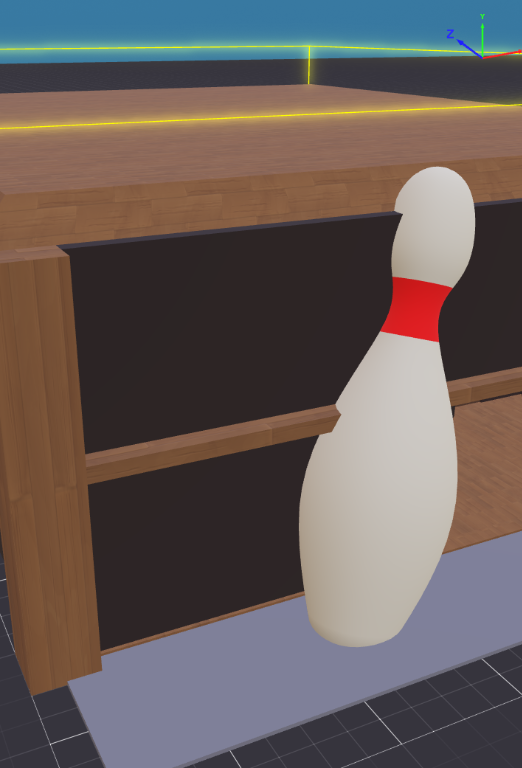
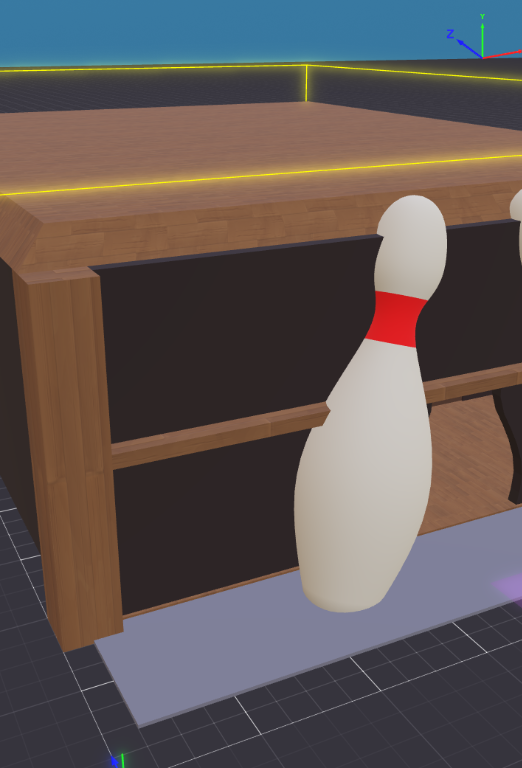
wip: keyframe payload reduction

diff --git a/dcl/src/shared/utils/cannon-sim.ts b/dcl/src/shared/utils/cannon-sim.ts
@@ -62,24 +62,6 @@ const BOWL_SPEED_MIN = 5
 const BOWL_SPEED_MAX = 20
 
 
-function roundVector3(vector: Vector3, decimalPlaces: number = 3): Vector3 {
-	const factor = 10 ** decimalPlaces
-	return Vector3.create(
-		Math.round(vector.x * factor) / factor,
-		Math.round(vector.y * factor) / factor,
-		Math.round(vector.z * factor) / factor
-	)
-}
-function roundQuaternion(quaternion: Quaternion, decimalPlaces: number = 3): Quaternion {
-	const factor = 10 ** decimalPlaces
-	return Quaternion.create(
-		Math.round(quaternion.x * factor) / factor,
-		Math.round(quaternion.y * factor) / factor,
-		Math.round(quaternion.z * factor) / factor,
-		Math.round(quaternion.w * factor) / factor
-	)
-}
-
 
 
 /** Lane-local pin rest positions (same order as simulation bodies). */
@@ -207,6 +189,8 @@ export class CannonSim {
 	}
 
 	simulate(duration: number): CannonSimResults {
+		const simStartTime = Date.now()
+
 		var framesWithNovelocity = 0
 		const STEP_TIME = 1 / GameSettings.SIM_FRAME_RATE
 		const STEPS     = Math.floor(duration / STEP_TIME)
@@ -222,6 +206,9 @@ export class CannonSim {
 			,
 			finalPinStates: Array.from({ length: PIN_LANE_LOCAL_POSITIONS.length }, () => true)
 		}
+
+		const setupDuration = Date.now() - simStartTime
+		console.log(`cannon-sim: setup finished after: ${setupDuration}ms`)
 
 		for (let i = 0; i < STEPS; i++) {
 			var hasVelocity = false
@@ -265,10 +252,13 @@ export class CannonSim {
 			}
 
 			if (framesWithNovelocity > GameSettings.SIM_FRAMES_WITH_NO_VELOCITY_THRESHOLD) {
-				console.log(`cannon-sim: simulate: stopping simulation at frame ${i} because it has been running for too long`)
+				console.log(`cannon-sim: stopping simulation at frame ${i} because it has been running for too long`)
 				break
 			}
 		}
+		
+		const simulationDuration = Date.now() - simStartTime
+		console.log(`cannon-sim: simulation finished after: ${simulationDuration}ms`)
 
 		// Now work out  which of the pins are no longer standing
 		for (const pinKeyframes of simResults.pinsKeyframes) {
@@ -280,10 +270,15 @@ export class CannonSim {
 				simResults.finalPinStates[index] = false
 			}
 		}
+		
+		const finalPinStatesDuration = Date.now() - simStartTime
+		console.log(`cannon-sim: finalPinStates finished after: ${finalPinStatesDuration}ms`)
 
-		//return simResults
 
 		const optimisedSimResults = this.optimise(simResults)
+		
+		const optimisationDuration = Date.now() - simStartTime
+		console.log(`cannon-sim: optimisation finished after: ${optimisationDuration}ms`)
 		return optimisedSimResults
 	}
 
@@ -306,16 +301,21 @@ export class CannonSim {
 			finalPinStates: simResults.finalPinStates
 		}
 
-		const originalKeyframes = this.countKeyframes(simResults)
-		const optimisedKeyframes = this.countKeyframes(optimisedResults)
-		const ballOriginal = simResults.ballKeyframes.keyframes.length
-		const ballOptimised = optimisedBallKeyframes.length
+		const originalKeyframes  = countKeyframes(simResults)
+		const optimisedKeyframes = countKeyframes(optimisedResults)
+		const ballOriginal       = simResults.ballKeyframes.keyframes.length
+		const ballOptimised      = optimisedBallKeyframes.length
 		console.log(`cannon-sim: optimise: ball keyframes ${ballOriginal} -> ${ballOptimised} (${ballOriginal - ballOptimised} removed)`)
+
 		for (const [i, pin] of simResults.pinsKeyframes.entries()) {
-			const optimisedPin = optimisedPinsKeyframes[i]
-			const originalPinCount = pin.keyframes.length
+			const startTimePin = Date.now()
+			
+			const optimisedPin      = optimisedPinsKeyframes[i]
+			const originalPinCount  = pin.keyframes.length
 			const optimisedPinCount = optimisedPin?.keyframes.length ?? 0
-			console.log(`cannon-sim: optimise: pin ${pin.index} keyframes ${originalPinCount} -> ${optimisedPinCount} (${originalPinCount - optimisedPinCount} removed)`)
+
+			const pinDuration = Date.now() - startTimePin
+			console.log(`cannon-sim: optimise: pin ${pin.index} keyframes ${originalPinCount} -> ${optimisedPinCount} (${originalPinCount - optimisedPinCount} removed) in ${pinDuration}ms`)
 		}
 
 		const duration = Date.now() - startTime
@@ -337,7 +337,8 @@ export class CannonSim {
 		}
 	}
 	
-	// MARK: utils
+
+	// MARK: reduceKeyframes
 	private reduceKeyframes(keyframes: SimObjectKeyframe[]): SimObjectKeyframe[] {
 		const reducedKeyframes: SimObjectKeyframe[] = []
 		for (const [i, keyframe] of keyframes.entries()) {
@@ -352,8 +353,8 @@ export class CannonSim {
 			if (!previousPosition || !nextPosition) {
 				newKeyframe.position = currentPosition
 			} else if (
-				!this.areVectorsEqual(previousPosition, currentPosition) ||
-				!this.areVectorsEqual(currentPosition, nextPosition)
+				!areVectorsEqual(previousPosition, currentPosition) ||
+				!areVectorsEqual(currentPosition, nextPosition)
 			) {
 				newKeyframe.position = currentPosition
 			}
@@ -364,8 +365,8 @@ export class CannonSim {
 			if (!previousRotation || !nextRotation) {
 				newKeyframe.rotation = currentRotation
 			} else if (
-				!this.areQuaternionsEqual(previousRotation, currentRotation) ||
-				!this.areQuaternionsEqual(currentRotation, nextRotation)
+				!areQuaternionsEqual(previousRotation, currentRotation) ||
+				!areQuaternionsEqual(currentRotation, nextRotation)
 			) {
 				newKeyframe.rotation = currentRotation
 			}
@@ -377,23 +378,48 @@ export class CannonSim {
 		return reducedKeyframes
 	}
 
-	private areVectorsEqual(a: Vector3Type, b: Vector3Type): boolean {
-		return Vector3.equalsWithEpsilon(a, b, GameSettings.SIM_KEYFRAME_REDUCTION_EPSILON)
-	}
-
-	private areQuaternionsEqual(a: QuaternionType, b: QuaternionType): boolean {
-		const dot = Quaternion.dot(a, b)
-		return 1 - Math.abs(dot) < GameSettings.SIM_KEYFRAME_REDUCTION_EPSILON
-	}
 	
-	private countKeyframes(steps: CannonSimResults) {
-		var count = 0
-		count += steps.ballKeyframes.keyframes.length
-		for (const pin of steps.pinsKeyframes) {
-			count += pin.keyframes.length
-		}
-		return count
-	}
+
 
 
 }
+
+// MARK: Utils
+
+function roundVector3(vector: Vector3, decimalPlaces: number = 3): Vector3 {
+	const factor = 10 ** decimalPlaces
+	return Vector3.create(
+		Math.round(vector.x * factor) / factor,
+		Math.round(vector.y * factor) / factor,
+		Math.round(vector.z * factor) / factor
+	)
+}
+function roundQuaternion(quaternion: Quaternion, decimalPlaces: number = 3): Quaternion {
+	const factor = 10 ** decimalPlaces
+	return Quaternion.create(
+		Math.round(quaternion.x * factor) / factor,
+		Math.round(quaternion.y * factor) / factor,
+		Math.round(quaternion.z * factor) / factor,
+		Math.round(quaternion.w * factor) / factor
+	)
+}
+
+function areVectorsEqual(a: Vector3Type, b: Vector3Type): boolean {
+	return Vector3.equalsWithEpsilon(a, b, GameSettings.SIM_KEYFRAME_REDUCTION_EPSILON)
+}
+
+function areQuaternionsEqual(a: QuaternionType, b: QuaternionType): boolean {
+	const dot = Quaternion.dot(a, b)
+	return 1 - Math.abs(dot) < GameSettings.SIM_KEYFRAME_REDUCTION_EPSILON
+}
+
+	
+function countKeyframes(steps: CannonSimResults) {
+	var count = 0
+	count += steps.ballKeyframes.keyframes.length
+	for (const pin of steps.pinsKeyframes) {
+		count += pin.keyframes.length
+	}
+	return count
+}
+

diff --git a/dcl/src/shared/room.ts b/dcl/src/shared/room.ts
@@ -1,5 +1,6 @@
 import { registerMessages } from '@dcl/sdk/network'
 import { Schemas } from '@dcl/sdk/ecs'
+import { ReadWriteByteBuffer } from '@dcl/ecs/dist/serialization/ByteBuffer'
 
 // MARK: MessageType enum
 export enum MessageType {
@@ -85,6 +86,11 @@ const userIdMessageBaseSchema = {
 	userId       : Schemas.String
 }
 
+const eventEnvelopeSchema = Schemas.Map({
+	eventType: Schemas.String,
+	timestamp: Schemas.Int64
+})
+
 const Messages = {
 	// Sent by client
 	[MessageType.REQUEST_JOIN_GAME]          : Schemas.Optional(Schemas.Number),
@@ -114,6 +120,21 @@ const Messages = {
 		...userIdMessageBaseSchema,
 	}),
 	[MessageType.NOTIFY_GAME_END]          : notifyLaneStateSchema,
+}
+
+const CUSTOM_EVENT_WRAPPER_BYTES = 1
+
+export function getMessagePayloadSizeBytes(eventType: keyof typeof Messages, data: unknown): number {
+	const buffer = new ReadWriteByteBuffer()
+
+	eventEnvelopeSchema.serialize({
+		eventType : eventType,
+		timestamp : Date.now()
+	}, buffer)
+
+	Messages[eventType].serialize(data as never, buffer)
+
+	return buffer.toBinary().byteLength + CUSTOM_EVENT_WRAPPER_BYTES
 }
 
 // Export room

diff --git a/dcl/src/server/serverMessaging.ts b/dcl/src/server/serverMessaging.ts
@@ -1,4 +1,4 @@
-import { MessageType, room } from "src/shared/room"
+import { getMessagePayloadSizeBytes, MessageType, room } from "src/shared/room"
 import { NotifyPlayerRollPayload } from "src/shared/types"
 
 import { ServerStore } from "src/server/serverStore"
@@ -36,6 +36,13 @@ export function notifyPlayerRollStart(laneIndex: number, userId: string) {
 export function notifyPlayerRollPlayback(laneIndex: number, payload: NotifyPlayerRollPayload) {
 	const serverStore = ServerStore.getInstance()
 	const to = serverStore.getLaneUserIds(laneIndex)
+	const payloadSizeBytes = getMessagePayloadSizeBytes(MessageType.NOTIFY_PLAYER_ROLL_PLAYBACK, payload)
+	const totalBytes = payloadSizeBytes * to.length
+
+	console.log(
+		`serverMessaging: notifyPlayerRollPlayback: lane ${laneIndex}, recipients ${to.length}, payload ${payloadSizeBytes} bytes (${(payloadSizeBytes / 1024).toFixed(2)} KB), total ${totalBytes} bytes (${(totalBytes / 1024).toFixed(2)} KB)`
+	)
+
 	room.send(MessageType.NOTIFY_PLAYER_ROLL_PLAYBACK, payload, { to: to })
 }
 

diff --git a/dcl/src/client/gameStateHandler.ts b/dcl/src/client/gameStateHandler.ts
@@ -74,7 +74,13 @@ export namespace gameStateHandler {
 
 	function onRollPlayback(data: NotifyPlayerRollPayload) {
 		console.log('gameStateHandler: onRollPlayback: replaying roll from another player')
-		// TODO: replay other player's roll
+		// TODO: replay other player's roll	eventBus.on(ClientEvents.ON_GROUP_ROLL_PLAYBACK, (data: NotifyPlayerRollPayload) => { handleNotifyPlayerRollPlayback(data) })
+
+		if (!laneVisuals) {
+			console.log('gameStateHandler: onRollPlayback: laneVisuals not found')
+			return
+		}
+		laneVisuals.runReplay(data)
 	}
 
 

diff --git a/dcl/src/shared/settings.ts b/dcl/src/shared/settings.ts
@@ -35,9 +35,9 @@ export class GameSettings {
 
 	// Cannon-es sim settings
 	static SIM_KEYFRAME_REDUCTION_EPSILON = 0.002
-	static SIM_FRAME_RATE                 = 30
-	static SIM_SUB_STEPS                  = 4
-	static SIM_DURATION                   = 8             // in seconds NOT in milliseconds
+	static SIM_FRAME_RATE                 = 6
+	static SIM_SUB_STEPS                  = 12
+	static SIM_DURATION                   = 6             // in seconds NOT in milliseconds
 	static SIM_FRAMES_WITH_NO_VELOCITY_THRESHOLD = 10
 
 }

diff --git a/dcl/src/client/laneVisuals.ts b/dcl/src/client/laneVisuals.ts
@@ -162,6 +162,8 @@ export class LaneVisuals {
 	 */
 	runReplay(data: NotifyPlayerRollPayload, onComplete?: () => void): void {
 
+		console.log("laneVisuals: runReplay(): data", data)
+
 		// Make sure the ball exists before we start driving its transform.
 		if (this.ball === undefined) this.setupBall()
 
@@ -210,9 +212,6 @@ export class LaneVisuals {
 				engine.removeSystem(systemName)
 			}
 		}, undefined, systemName)
-	}
-
-	animateEntity(entity: Entity, keyframes: any) {
 	}
 
 	getPositionWaypoints(keyframes: SimObjectKeyframe[]) {